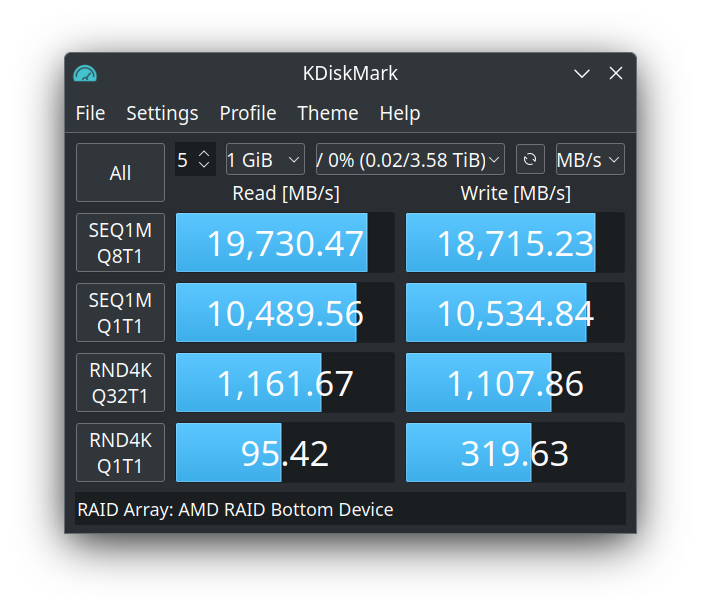
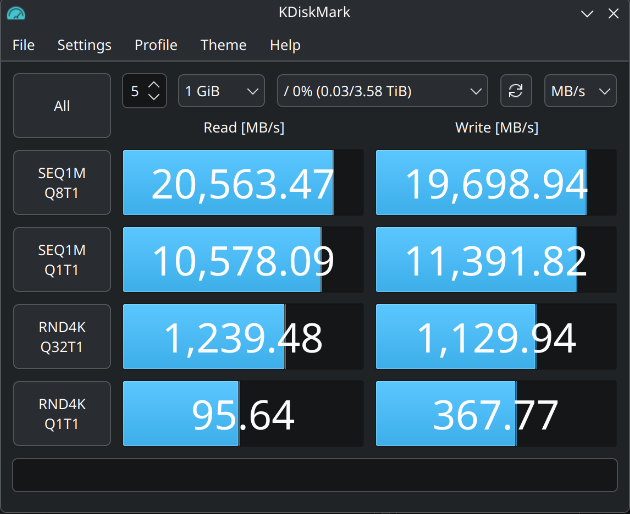
docs: refresh KDiskMark screenshot — Linux 7.0 run, measured on the array as rootfs
Replace the 6.17-era screenshot (19,730 / 18,715 MB/s) with the fresh
Kubuntu 26.04 run: 20,563 / 19,699 MB/s SEQ1M Q8T1, benchmarked against
the array serving /. Caption and alt text updated to match.

diff --git a/README.md b/README.md
@@ -121,8 +121,8 @@ free: the same RAID0 array that did 19.7 / 18.7 GB/s on Linux 6.17 does
 design rides every block-layer improvement upstream lands.
 
 <p align="center">
-  <img src="image/kdiskmark.png" width="480" alt="KDiskMark on /dev/rcraid0: 19,730 MB/s read, 18,715 MB/s write (SEQ1M Q8T1)"><br>
-  <em>KDiskMark 3.3.0 on <code>/dev/rcraid0</code> — RAID0 across two Crucial T700 NVMe SSDs (PCIe 5.0) on a TRX50 motherboard (Linux 6.17 run).</em>
+  <img src="image/kdiskmark.png" width="480" alt="KDiskMark on the RAID0 array: 20,563 MB/s read, 19,699 MB/s write (SEQ1M Q8T1)"><br>
+  <em>KDiskMark 3.3.0 on the RAID0 array serving <code>/</code> — 2× Crucial T700 NVMe SSDs (PCIe 5.0), TRX50, Kubuntu 26.04 (Linux 7.0).</em>
 </p>
 
 ---